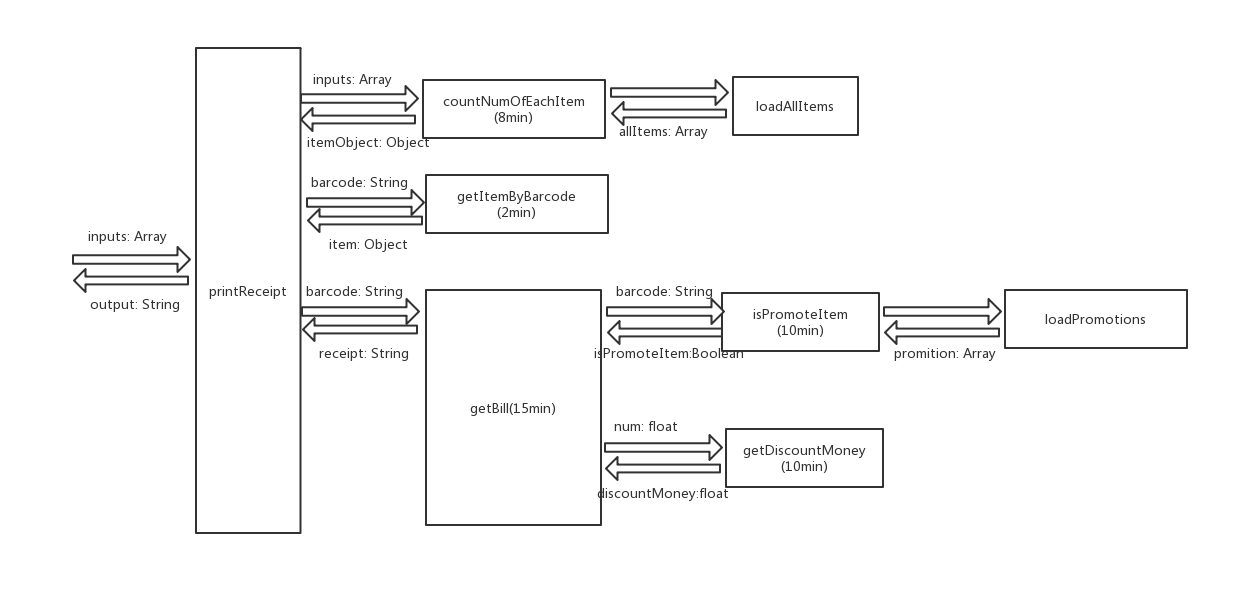
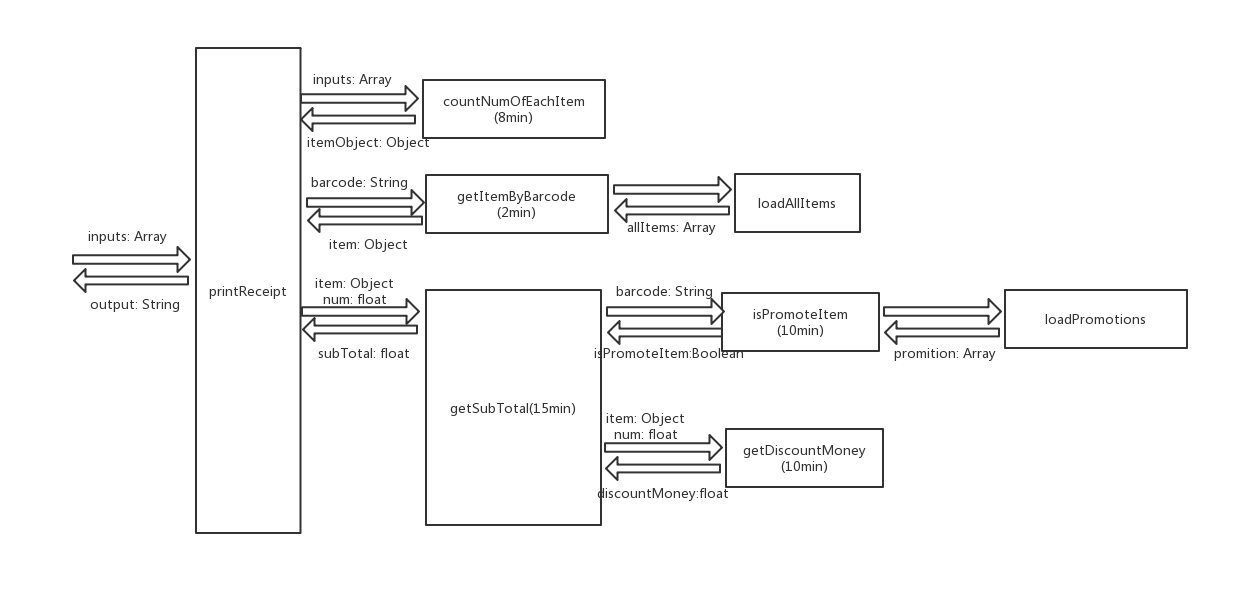
update pos_v1, coding and passed the test.

diff --git a/main/main.js b/main/main.js
@@ -1,3 +1,71 @@
 'use strict';
 
-//TODO: 请在该文件中实现练习要求并删除此注释
+function printReceipt(inputs){
+    var itemObject = countNumOfEachItem(inputs);
+    var total=0.00;
+    var discountedMoney=0;
+    var result = '***<没钱赚商店>收据***\n'
+    for(var barcode in itemObject){
+        let item = getItemByBarcode(barcode);
+        let num = itemObject[barcode];
+        let subTotal = getSubTotal(item, num);
+        discountedMoney += subTotal;
+        total += Number(item.price * num);
+        result += `名称：${item.name}，数量：${num}${item.unit}，单价：${item.price.toFixed(2)}(元)，小计：${subTotal.toFixed(2)}(元)\n`;
+        // '名称：'+ item.name +'，数量：'+ num + item.unit + '，单价：'+ item.price.toFixed(2) +'(元)，小计：'+ (item.price * num).toFixed(2) +'(元)';
+    }
+    result+=`----------------------\n总计：${discountedMoney.toFixed(2)}(元)\n节省：${(total - discountedMoney).toFixed(2)}(元)\n**********************`;
+
+    console.log(result);
+}
+
+function countNumOfEachItem(inputs){
+    var itemObject = {};
+    // TODO 可以改成用reduce实现
+    inputs.map(tag => {
+        let splitTag = tag.split('-');
+        if(splitTag.length===1){
+            if(itemObject[tag]){
+                itemObject[tag]++;
+            } else {
+                itemObject[tag]=1;
+            }
+        } else {
+            let barcode = splitTag[0];
+            let num = Number(splitTag[1]);
+            if(itemObject[barcode]){
+                itemObject[barcode]+=num;
+            } else {
+                itemObject[barcode]=num;
+            }
+        }
+    });
+    return itemObject;
+}
+
+function getItemByBarcode(barcode){
+    var allItems = loadAllItems();
+    return allItems.find(item => item.barcode == barcode);
+}
+
+function getSubTotal(item, num){
+    var discountMoney=0.00;
+    var subTotal = item.price * num;
+    if(isPromoteItem(item.barcode)){
+        discountMoney = getDiscountMoney(item, num);
+        subTotal-=discountMoney;
+    }
+    return subTotal;
+}
+
+function isPromoteItem(barcode){
+    var promotions = loadPromotions();
+    var promotion = promotions.find(promotion => promotion.type === 'BUY_TWO_GET_ONE_FREE');
+    return promotion.barcodes.includes(barcode);
+}
+
+function getDiscountMoney(item, num){
+    var price = item.price;
+    var freeNum = Math.floor(num / 3);
+    return freeNum * price;
+}
